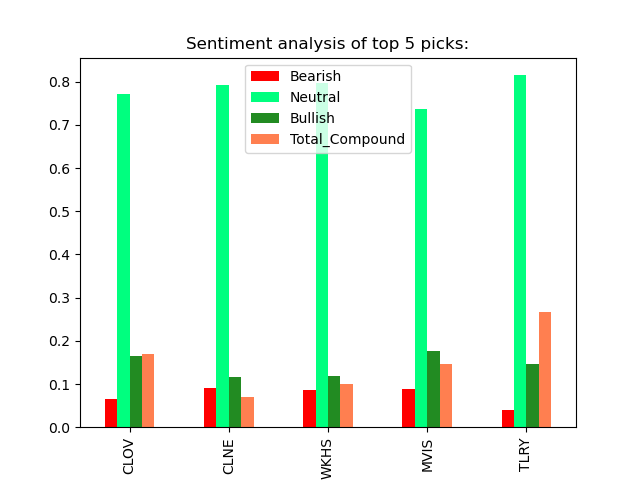
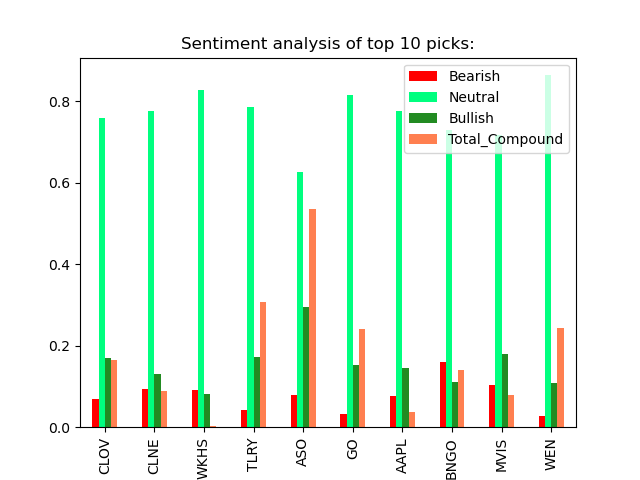
update files

diff --git a/wsb-sentiment-analysis.py b/wsb-sentiment-analysis.py
@@ -47,7 +47,7 @@ ups = 20       # define # of upvotes, post is considered if upvotes exceed this 
 limit = 10      # define the limit, comments 'replace more' limit
 upvotes = 2     # define # of upvotes, comment is considered if upvotes exceed this #
 picks = 10     # define # of picks here, prints as "Top ## picks are:"
-picks_ayz = 5   # define # of picks for sentiment analysis
+picks_ayz = 10   # define # of picks for sentiment analysis
 
 posts, count, c_analyzed, tickers, titles, a_comments = 0, 0, 0, {}, [], {}
 cmt_auth = {}
